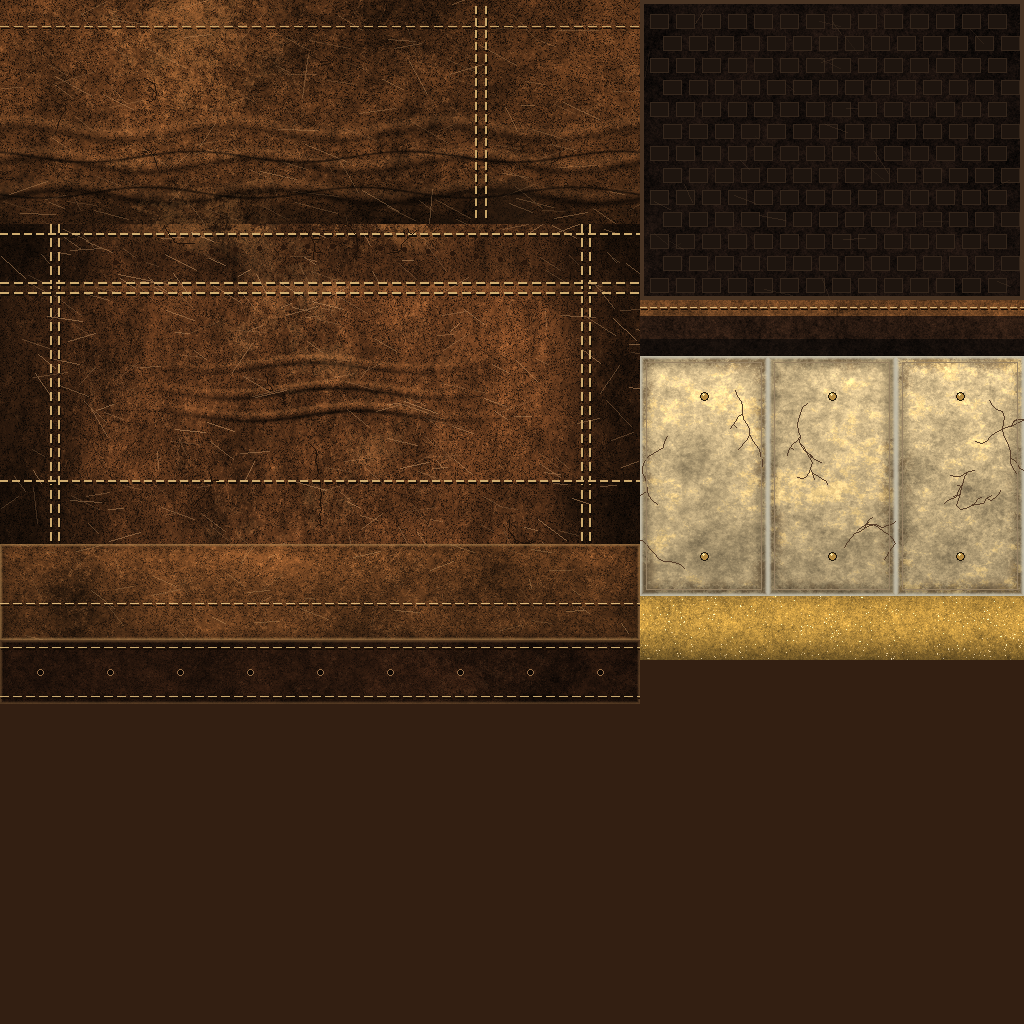
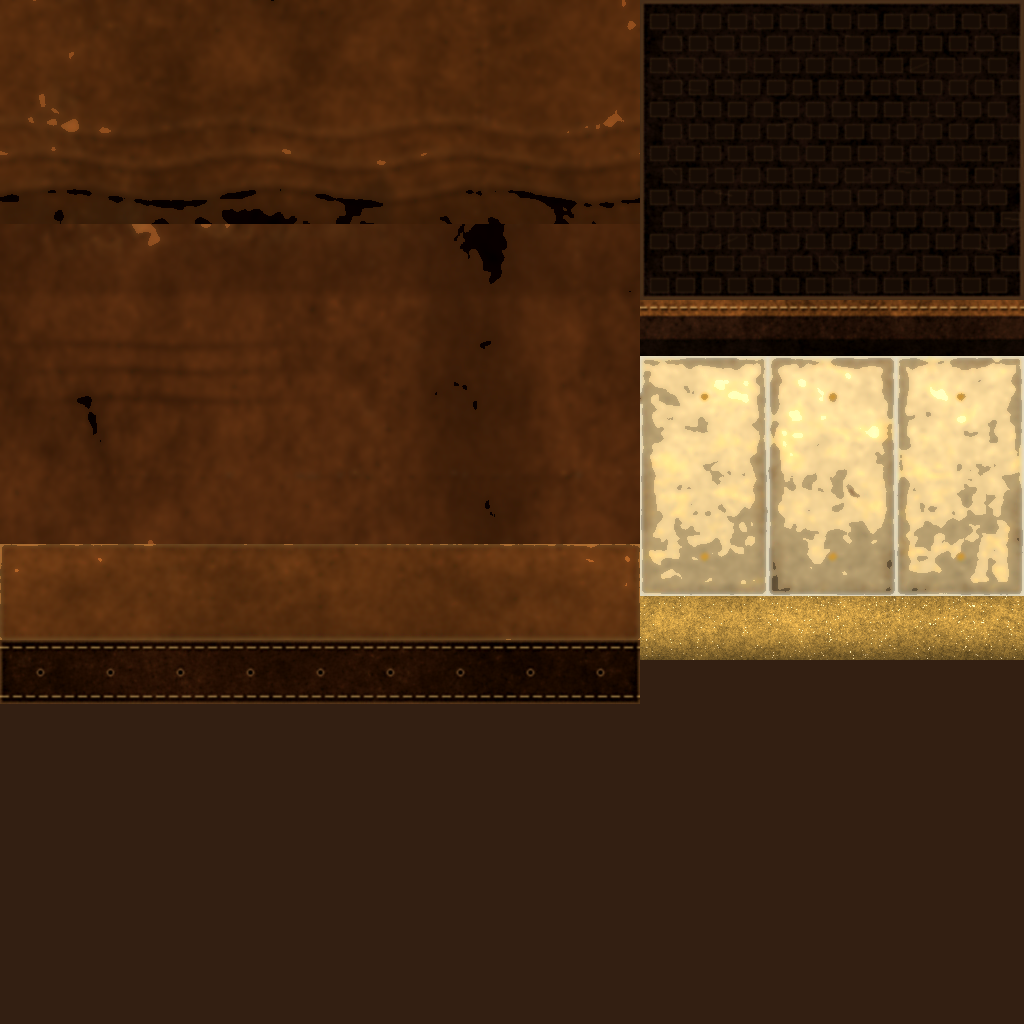
feat(arte): botas do Arqueiro com cano mais alto, bico arredondado e textura pintada à mão

diff --git a/art-src/personagens/arqueiro/pernas_geo.py b/art-src/personagens/arqueiro/pernas_geo.py
@@ -374,8 +374,8 @@ Y_HEEL, Y_TOE = 0.160, -0.275
 LEN = Y_HEEL - Y_TOE
 # t: posicao ao longo do pe (0 calcanhar, 1 bico)
 FT = [0.0, 0.22, 0.42, 0.60, 0.76, 0.90, 0.975]
-FHW = [0.090, 0.100, 0.110, 0.119, 0.120, 0.100, 0.058]
-FZT = [0.150, 0.148, 0.132, 0.116, 0.104, 0.092, 0.076]
+FHW = [0.090, 0.100, 0.110, 0.119, 0.120, 0.106, 0.072]
+FZT = [0.165, 0.168, 0.158, 0.138, 0.118, 0.104, 0.088]
 Z_SOLA = 0.040
 
 
@@ -383,7 +383,7 @@ def cl_bota(z):
     return interp(CL, z, 1), interp(CL, z, 2)  # mesma linha do osso/perna
 
 
-BR = [(0.07, 0.086, 0.090), (0.12, 0.094, 0.098), (0.17, 0.090, 0.095), (0.22, 0.090, 0.094), (0.26, 0.092, 0.096)]
+BR = [(0.07, 0.086, 0.090), (0.12, 0.094, 0.098), (0.17, 0.090, 0.095), (0.22, 0.088, 0.092), (0.28, 0.088, 0.092), (0.33, 0.094, 0.098)]
 
 
 def rad_bota(z):
@@ -402,8 +402,8 @@ def construir_botas(seed=11):
     for sx in (1, -1):
         sr = random.Random(seed + (0 if sx > 0 else 5))
         # ---- cano (com cuff dobrado no topo)
-        zc = [0.075, 0.12, 0.165, 0.21, 0.245, 0.262]
-        offc = [0.0, 0.003, -0.002, 0.004, 0.016, 0.006]
+        zc = [0.075, 0.12, 0.17, 0.22, 0.27, 0.31, 0.33]
+        offc = [0.0, 0.003, -0.002, 0.002, 0.004, 0.018, 0.008]
         nseg = 10
         aneis = []
         for z, o in zip(zc, offc):
@@ -419,9 +419,9 @@ def construir_botas(seed=11):
         parte_uv = {0: ("CANO", 0.0), 1: ("CANO", 0.2), 2: ("CANO", 0.4), 3: ("CANO", 0.6), 4: ("CANO", 0.78), 5: ("CUFF", 0.0), 6: ("CUFF", 1.0)}
 
         def uvc(i, j):
-            if i <= 3:
-                return uvmap(BOTAS["CANO"], j / nseg, i / 3)
-            return uvmap(BOTAS["CUFF"], j / nseg, 0.2 if i == 4 else 1.0)
+            if i <= 4:
+                return uvmap(BOTAS["CANO"], j / nseg, i / 4)
+            return uvmap(BOTAS["CUFF"], j / nseg, 0.2 if i == 5 else 1.0)
         M.grade(aneis, uvc, "cano", True, True, fora=lambda p, sx=sx: Vector((sx * cl_bota(p.z)[0], cl_bota(p.z)[1], p.z)))
         # ---- peito do pe (shell): aneis ao longo de Y
         nj = 10
@@ -444,12 +444,12 @@ def construir_botas(seed=11):
         M.leque(aneis[0], (sx * XC, Y_HEEL + 0.004, (FZT[0] + Z_SOLA) / 2), lambda j, p, sx=sx: planar_u(p, sx, "CANO"), "shell",
                 lambda p, sx=sx: Vector((sx * XC, 0.0, p.z)) + Vector((0, -2, 0)), True)
         # bico arredondado: leque na frente
-        yb = Y_TOE - 0.020
+        yb = Y_TOE - 0.004
         pts = aneis[-1]
         cen = (sx * XC, yb, (FZT[-1] + Z_SOLA) / 2 - 0.004)
         M.leque(pts, cen, lambda j, p, sx=sx: planar_u(p, sx, "UPPER"), "shell", lambda p, sx=sx: Vector((sx * XC, 0.0, p.z)), True)
         # ---- sola com chanfro
-        perfil = [(0.0, 0.100), (0.22, 0.114), (0.5, 0.131), (0.76, 0.133), (0.92, 0.112), (1.0, 0.066), (1.03, 0.016)]
+        perfil = [(0.0, 0.100), (0.35, 0.122), (0.72, 0.134), (0.94, 0.112), (1.03, 0.040)]
         lado_d = [(t, w) for t, w in perfil]
         pol = [(XC + w, Y_HEEL - LEN * t) for t, w in lado_d] + [(XC - w, Y_HEEL - LEN * t) for t, w in reversed(lado_d)]
         pol = [(sx * x, y) for x, y in pol]
@@ -475,18 +475,18 @@ def construir_botas(seed=11):
         def pontaS(u):
             return (0.100 + 0.028 * abs(math.sin(u * 3.1)) , 0.222 - 0.02 * (1 - math.sin(u * math.pi)))
         placa(M, sx, -0.50, 0.55, 0.0, 0.0, 3, 2, 0.010, 0.012, "PLATE", "plate", BOTAS["PLATE_O"], cl_bota, rad_bota,
-              forma=lambda u: (0.105 + 0.045 * u, 0.232 - 0.03 * u))
-        placa(M, sx, math.pi - 0.55, math.pi + 0.45, 0.0, 0.0, 3, 2, 0.010, 0.012, "PLATE", "plate", BOTAS["PLATE_I"], cl_bota, rad_bota,
-              forma=lambda u: (0.150 - 0.04 * u, 0.215 + 0.02 * u))
+              forma=lambda u: (0.150 + 0.045 * u, 0.300 - 0.03 * u))
+        placa(M, sx, math.pi - 0.55, math.pi + 0.45, 0.0, 0.0, 2, 2, 0.010, 0.012, "PLATE", "plate", BOTAS["PLATE_I"], cl_bota, rad_bota,
+              forma=lambda u: (0.190 - 0.04 * u, 0.285 + 0.02 * u))
         placa(M, sx, -math.pi * 0.5 - 0.50, -math.pi * 0.5 + 0.50, 0.0, 0.0, 4, 2, 0.011, 0.012, "PLATE", "plate", BOTAS["PLATE_F"], cl_bota, rad_bota,
-              forma=lambda u: (0.115 + 0.055 * (1 - abs(2 * u - 1)), 0.238 - 0.01 * abs(2 * u - 1)))
+              forma=lambda u: (0.130 + 0.055 * (1 - abs(2 * u - 1)), 0.305 - 0.01 * abs(2 * u - 1)))
         # ---- cintas de couro + fivela
-        for zs_, alt in ((0.182, 0.018),):
+        for zs_, alt in ((0.215, 0.018),):
             cinta(M, sx, zs_, alt, 0.021, BOTAS["STRAP"], "strap", cl_bota, rad_bota, nseg=10)
-        cx, cy = cl_bota(0.18)
-        rx, ry = rad_bota(0.18)
+        cx, cy = cl_bota(0.215)
+        rx, ry = rad_bota(0.215)
         th = -math.pi * 0.5 + 0.55
-        caixa(M, (sx * (cx + (rx + 0.030) * math.cos(th)), cy + (ry + 0.030) * math.sin(th), 0.180), (0.022, 0.009, 0.024),
+        caixa(M, (sx * (cx + (rx + 0.030) * math.cos(th)), cy + (ry + 0.030) * math.sin(th), 0.215), (0.022, 0.009, 0.024),
               BOTAS["METAL"], "strap", rot_th=(th if sx > 0 else math.pi - th) + math.pi / 2)
     return M
 

diff --git a/art-src/personagens/arqueiro/pernas_textura.py b/art-src/personagens/arqueiro/pernas_textura.py
@@ -480,7 +480,32 @@ def montar_botas():
     pos("CUFF", cuff(*sz("CUFF")))
     pos("STRAP", strap(*sz("STRAP"), base=(0.16, 0.09, 0.05)))
     pos("METAL", metal(*sz("METAL")))
-    return A
+    return pintar_botas(A)
+
+
+def pintar_botas(A):
+    """Acabamento 'pintado a mao': tira o ruido fotografico do couro e do osso, cria bandas suaves de luz e saturacao."""
+    out = A.copy()
+    for nome, raio, bandas in (("CANO", 2.2, 5), ("UPPER", 2.2, 5), ("CUFF", 1.8, 4), ("PLATE_O", 1.6, 4),
+                               ("PLATE_I", 1.6, 4), ("PLATE_F", 1.6, 4), ("SOLE", 1.0, 0), ("SOLEW", 1.0, 0), ("STRAP", 1.0, 0)):
+        x0, y0, x1, y1 = BOTAS[nome]
+        im = Image.fromarray((np.clip(A[y0:y1, x0:x1], 0, 1) * 255 + 0.5).astype(np.uint8), "RGB")
+        if raio > 1.5:
+            im = im.filter(ImageFilter.MedianFilter(5))      # some riscos e rachaduras finas
+        im = im.filter(ImageFilter.GaussianBlur(raio)).filter(ImageFilter.UnsharpMask(2, 60, 3))
+        r = np.asarray(im, np.float32) / 255
+        lum = (r * np.array([0.3, 0.55, 0.15], np.float32)).sum(-1, keepdims=True)
+        if bandas:
+            q = np.round(lum * bandas) / bandas
+            q = lum * 0.45 + q * 0.55                       # bandas suaves de pintura
+            r = r * (q / (lum + 1e-4))
+        gray = r.mean(-1, keepdims=True)
+        r = gray + (r - gray) * 1.12                        # mais saturado, quente
+        r = 0.5 + (r - 0.5) * 1.08
+        if nome.startswith('PLATE'):
+            r = r * 1.10 + 0.02
+        out[y0:y1, x0:x1] = np.clip(r, 0, 1)
+    return out
 
 
 def salvar(A, nome):
